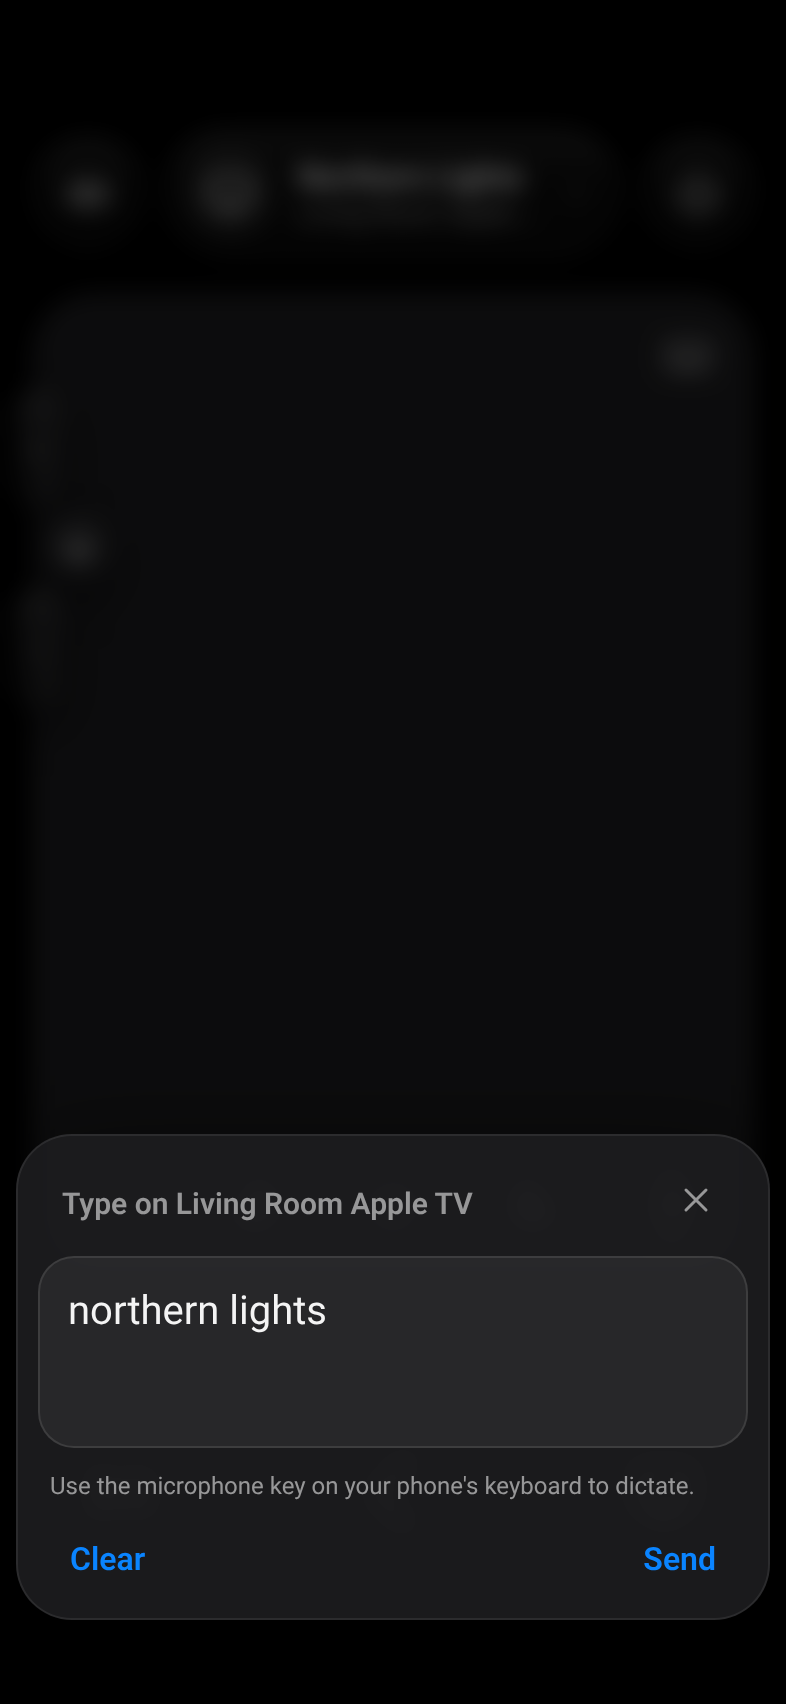
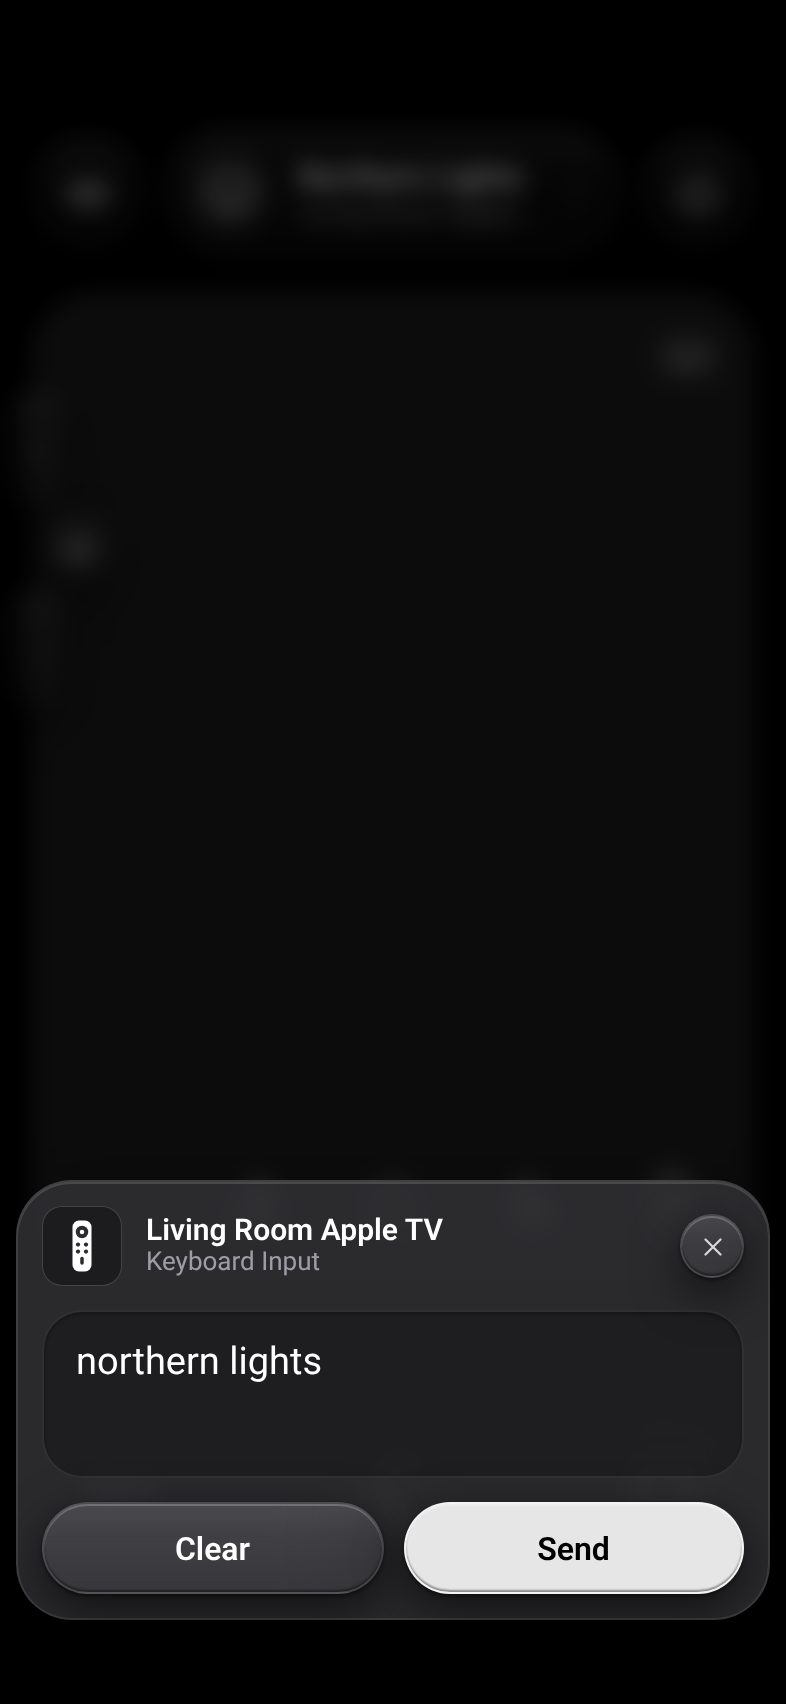
Grok Bot: README demo GIF (placeholder devices), Control Center section (Open Page shortcut, recording slot), screenshots + social preview re-rendered from 0.1.7 (11 Oct 2026)

diff --git a/README.md b/README.md
@@ -12,6 +12,10 @@ One card drives your Apple TVs, Kodi, LG webOS TVs and any other `media_player`:
 **Nothing else to install.** It's a single JavaScript file. You don't need any other custom cards, HACS add-ons or Home Assistant add-ons: no card-mod, browser_mod, kiosk-mode, template helpers or extra scripts. It only uses Home Assistant's built-in integrations for your devices: [Apple TV](https://www.home-assistant.io/integrations/apple_tv/), [Kodi](https://www.home-assistant.io/integrations/kodi/) and [LG webOS TV](https://www.home-assistant.io/integrations/webostv/). Any other `media_player` works through its standard services.
 
 <p align="center">
+  <img src="https://raw.githubusercontent.com/evski/ha-glass-remote-card/main/docs/images/demo.gif" width="300" alt="Demo: the artwork pill, picking a player, touchpad swipes and taps, the CH control opening and closing, the keyboard banner and typing, and the volume tabs">
+</p>
+
+<p align="center">
   <img src="https://raw.githubusercontent.com/evski/ha-glass-remote-card/main/docs/images/remote-kodi.png" width="240" alt="Remote controlling Kodi, with artwork in the top pill">
   <img src="https://raw.githubusercontent.com/evski/ha-glass-remote-card/main/docs/images/picker.png" width="240" alt="Device picker">
   <img src="https://raw.githubusercontent.com/evski/ha-glass-remote-card/main/docs/images/remote-apple-tv-wants-text.png" width="240" alt="Apple TV asking for text">
@@ -367,10 +371,28 @@ Notes:
           data: { input: $source }
 ```
 
-## Open it from iPhone Control Center
+## Open it from Control Center (iPhone)
 
-- **iOS 18+:** in Control Center, tap **+** → **Add a Control** → **Home Assistant** → **Open Page**, and pick your remote dashboard.
-- **Older iOS:** use a Shortcut with **Open URL** `homeassistant://navigate/<dashboard>/<view>`, then add the Shortcut to Control Center.
+You can put the remote one swipe away in Control Center, like Apple's own Remote. You need iOS 18 or later and the Home Assistant companion app, logged in to your server.
+
+1. Open the **Shortcuts** app and tap **+** to make a new shortcut.
+2. Tap **Add Action**, search for **Home Assistant** and choose **Open Page**.
+3. In the action, tap the page field and pick your remote dashboard (and view, if it has more than one). This is the dashboard with `glass-remote-card` on it, for example `/dashboard-remote/0`.
+4. Rename the shortcut, for example **Remote**: tap the name at the top → **Rename**.
+5. Set its icon: tap the name → **Choose Icon** → **Symbol**, then search for **tv**. Apple doesn't offer its Remote symbol to shortcuts, so the TV symbol is the closest match.
+6. Tap **Done**.
+7. Open Control Center, touch and hold an empty space (or tap **+** at the top left) and tap **Add a Control**.
+8. Search for **Shortcuts**, tap **Shortcut**, then choose **Remote**. Drag the control where you want it and tap an empty space to finish.
+
+Tapping the control now opens the Home Assistant app straight on the remote.
+
+<!-- Screen recording slot: docs/images/control-center.gif (to be added by the maintainer; not generated). When it exists, uncomment:
+<p align="center"><img src="https://raw.githubusercontent.com/evski/ha-glass-remote-card/main/docs/images/control-center.gif" width="300" alt="Adding the Remote shortcut to Control Center and opening the remote"></p>
+-->
+
+**Why not a URL shortcut?** A Shortcut with **Open URL** `homeassistant://navigate/...` looks simpler, but it isn't reliable: if the app is closed or was suspended, iOS often launches it on its default page and the navigate part is lost, or a Safari hop is shown first. **Open Page** is the companion app's own action, so it always lands on the right dashboard.
+
+**The phone's volume buttons can't drive the remote.** iOS keeps the physical volume buttons for the phone's own volume. Apple's Remote is part of the system, so it's allowed to take them over, but a web page or the dashboard inside the Home Assistant app never gets those button presses. Use the volume tabs on the pad's edge instead.
 
 ## With Sidebar Mini Player
 
@@ -397,6 +419,7 @@ kiosk_mode:
 ## Limits
 
 - **Siri can't be triggered** from Home Assistant on an Apple TV. Use the keyboard button and your phone keyboard's dictation instead.
+- **The phone's physical volume buttons can't be used.** iOS keeps them for the phone's own volume, and a web page never sees them (see [Control Center](#open-it-from-control-center-iphone)).
 - **A web page can't open the phone keyboard without a tap.** That's why the keyboard notification needs one tap.
 - **Apple TV info and subtitles both open tvOS's info panel.** There are no separate keys for them.
 - **LG rewind/fast-forward** change playback speed; they don't jump 10 seconds.

diff --git a/CHANGELOG.md b/CHANGELOG.md
@@ -9,6 +9,8 @@ All notable changes to this project are documented here. The format follows
 ### Changed
 - The typing sheet (keyboard button) now matches the rest of the card: the same frosted Liquid Glass panel and app-icon header as the keyboard banner, a thin close icon in a glass circle, and glass pill Clear and Send buttons instead of coloured text links. The placeholder is shorter ("Type or dictate") and the extra hint line is gone.
 - README: says plainly that no other custom cards or add-ons are needed, only Home Assistant's built-in integrations.
+- README: a demo GIF at the top, and step-by-step instructions for opening the remote from iPhone Control Center with a Home Assistant **Open Page** shortcut (and why URL shortcuts and the phone's volume buttons don't work).
+- Screenshots and the social preview re-rendered from 0.1.7 (no mic button, new typing sheet).
 
 ## [0.1.6] - unreleased
 
